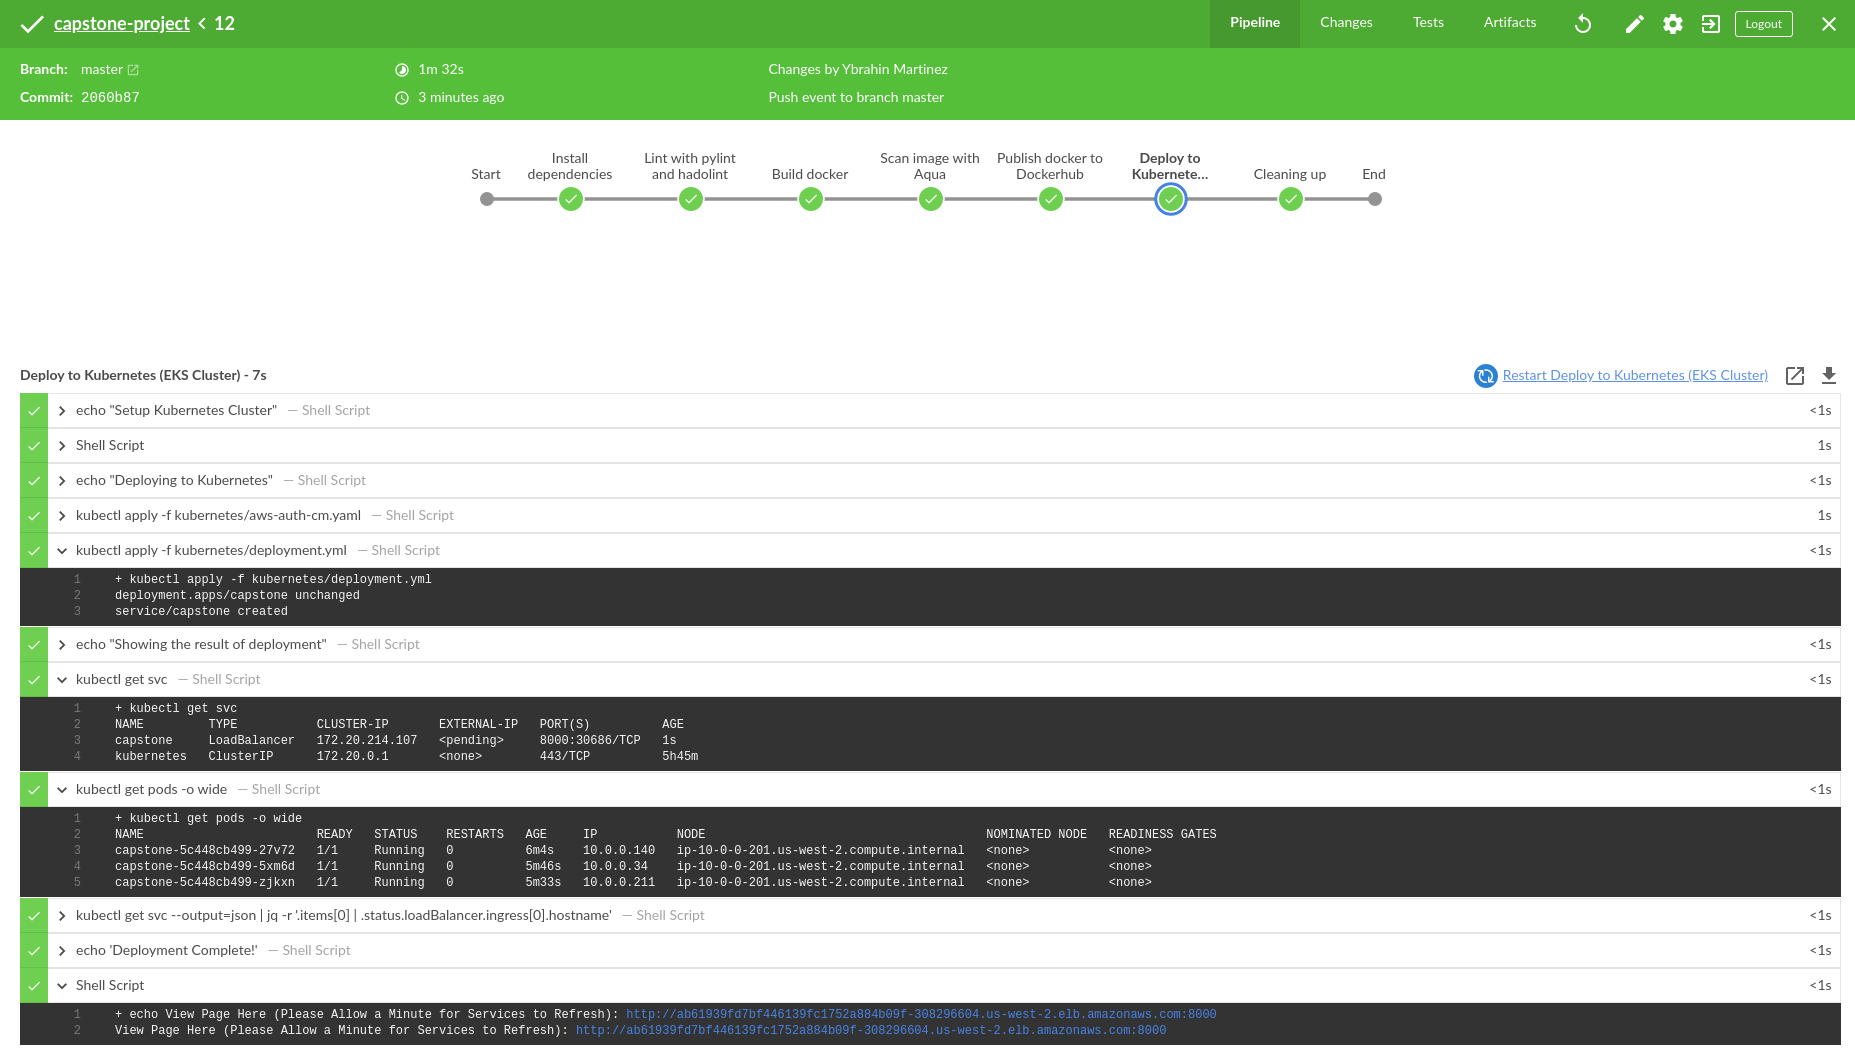
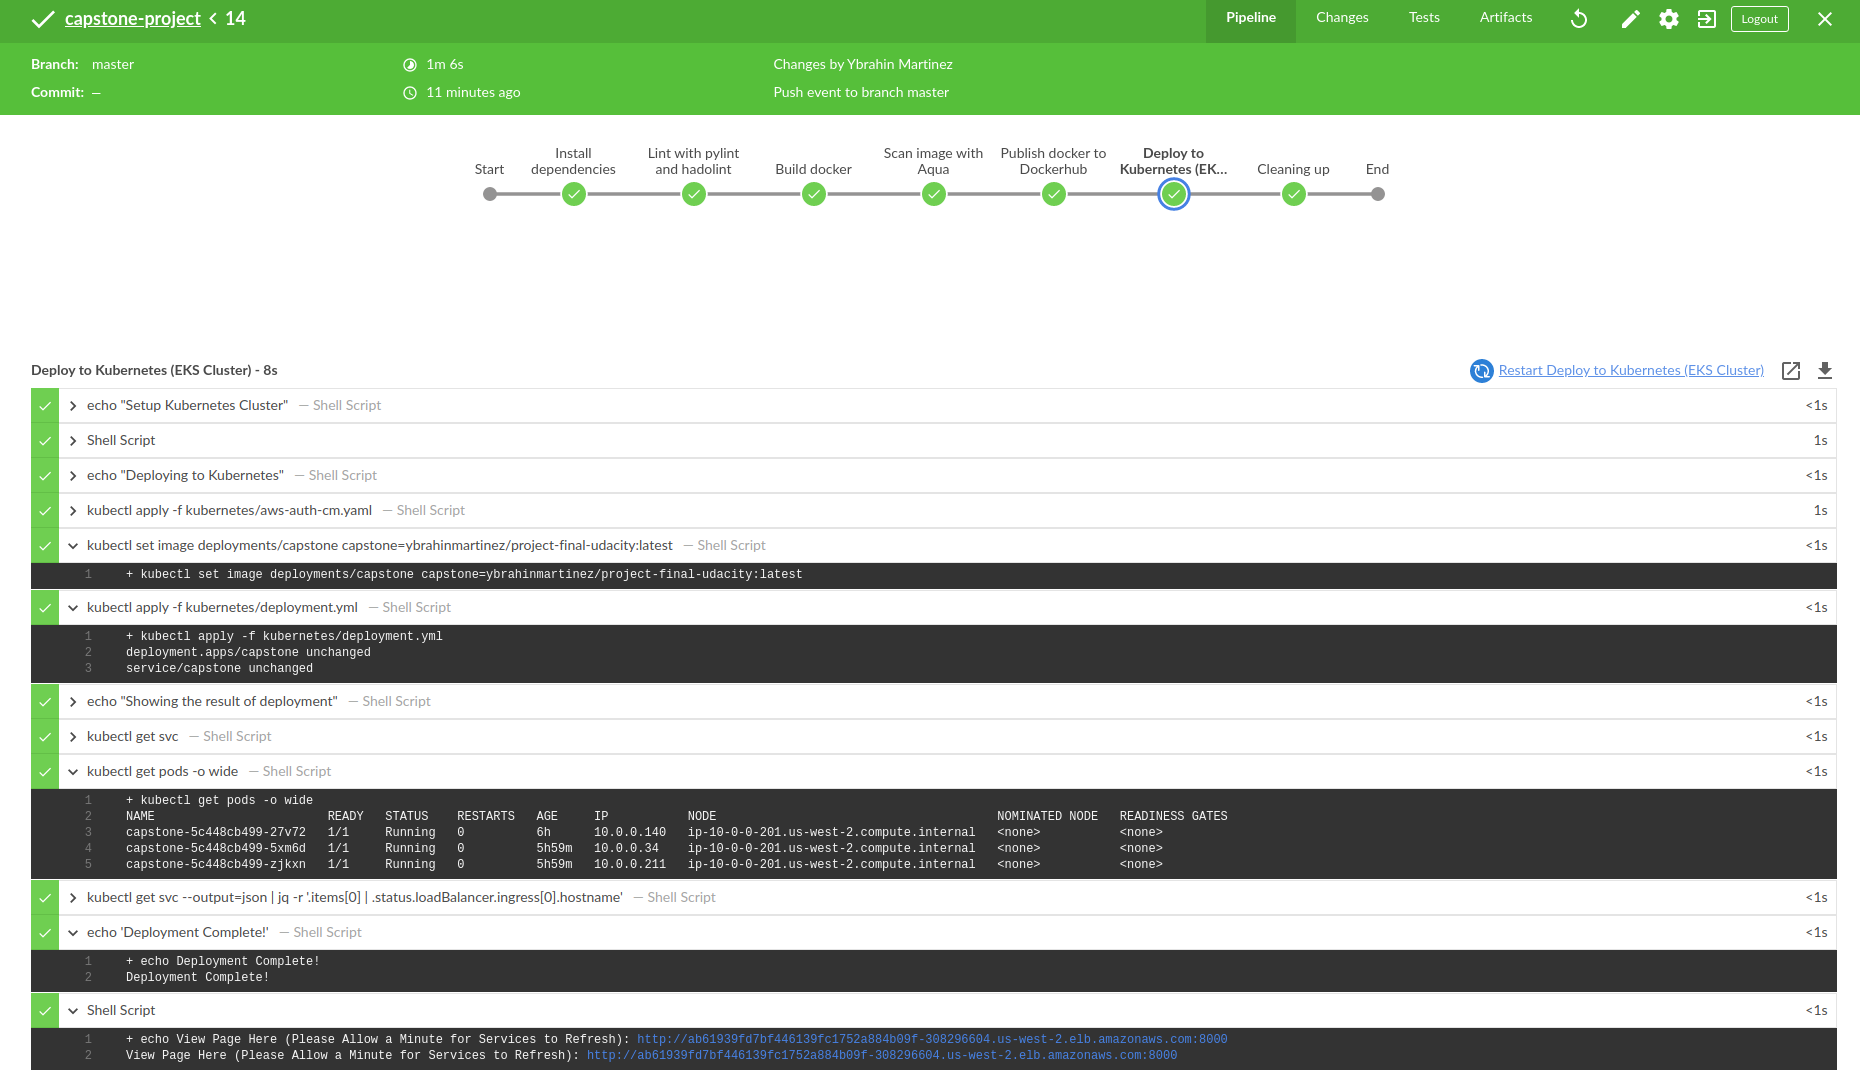
docs: Update the readme file and add screenshots to show the Rolling Deployment works

diff --git a/README.md b/README.md
@@ -92,6 +92,9 @@ You can find a detailed [project rubric, here](https://review.udacity.com/#!/rub
 - `outputs/capstone7-2.png` show successfully push docker hub(Part2)
 - `outputs/capstone8.png` show successfully push to  EKS cluster
 - `outputs/capstone9.png` show successfully the page with ELB running without problems
+- `outputs/capstone10.png` show successfully new deploy to show the Rolling Deployment method - Creathing/Starting new pods
+- `outputs/capstone11.png` show the new pods created and running successfully
+- `outputs/capstone12.png` show two versions of application, modify using Rolling Deployment
 
 > ### Docker:
 
